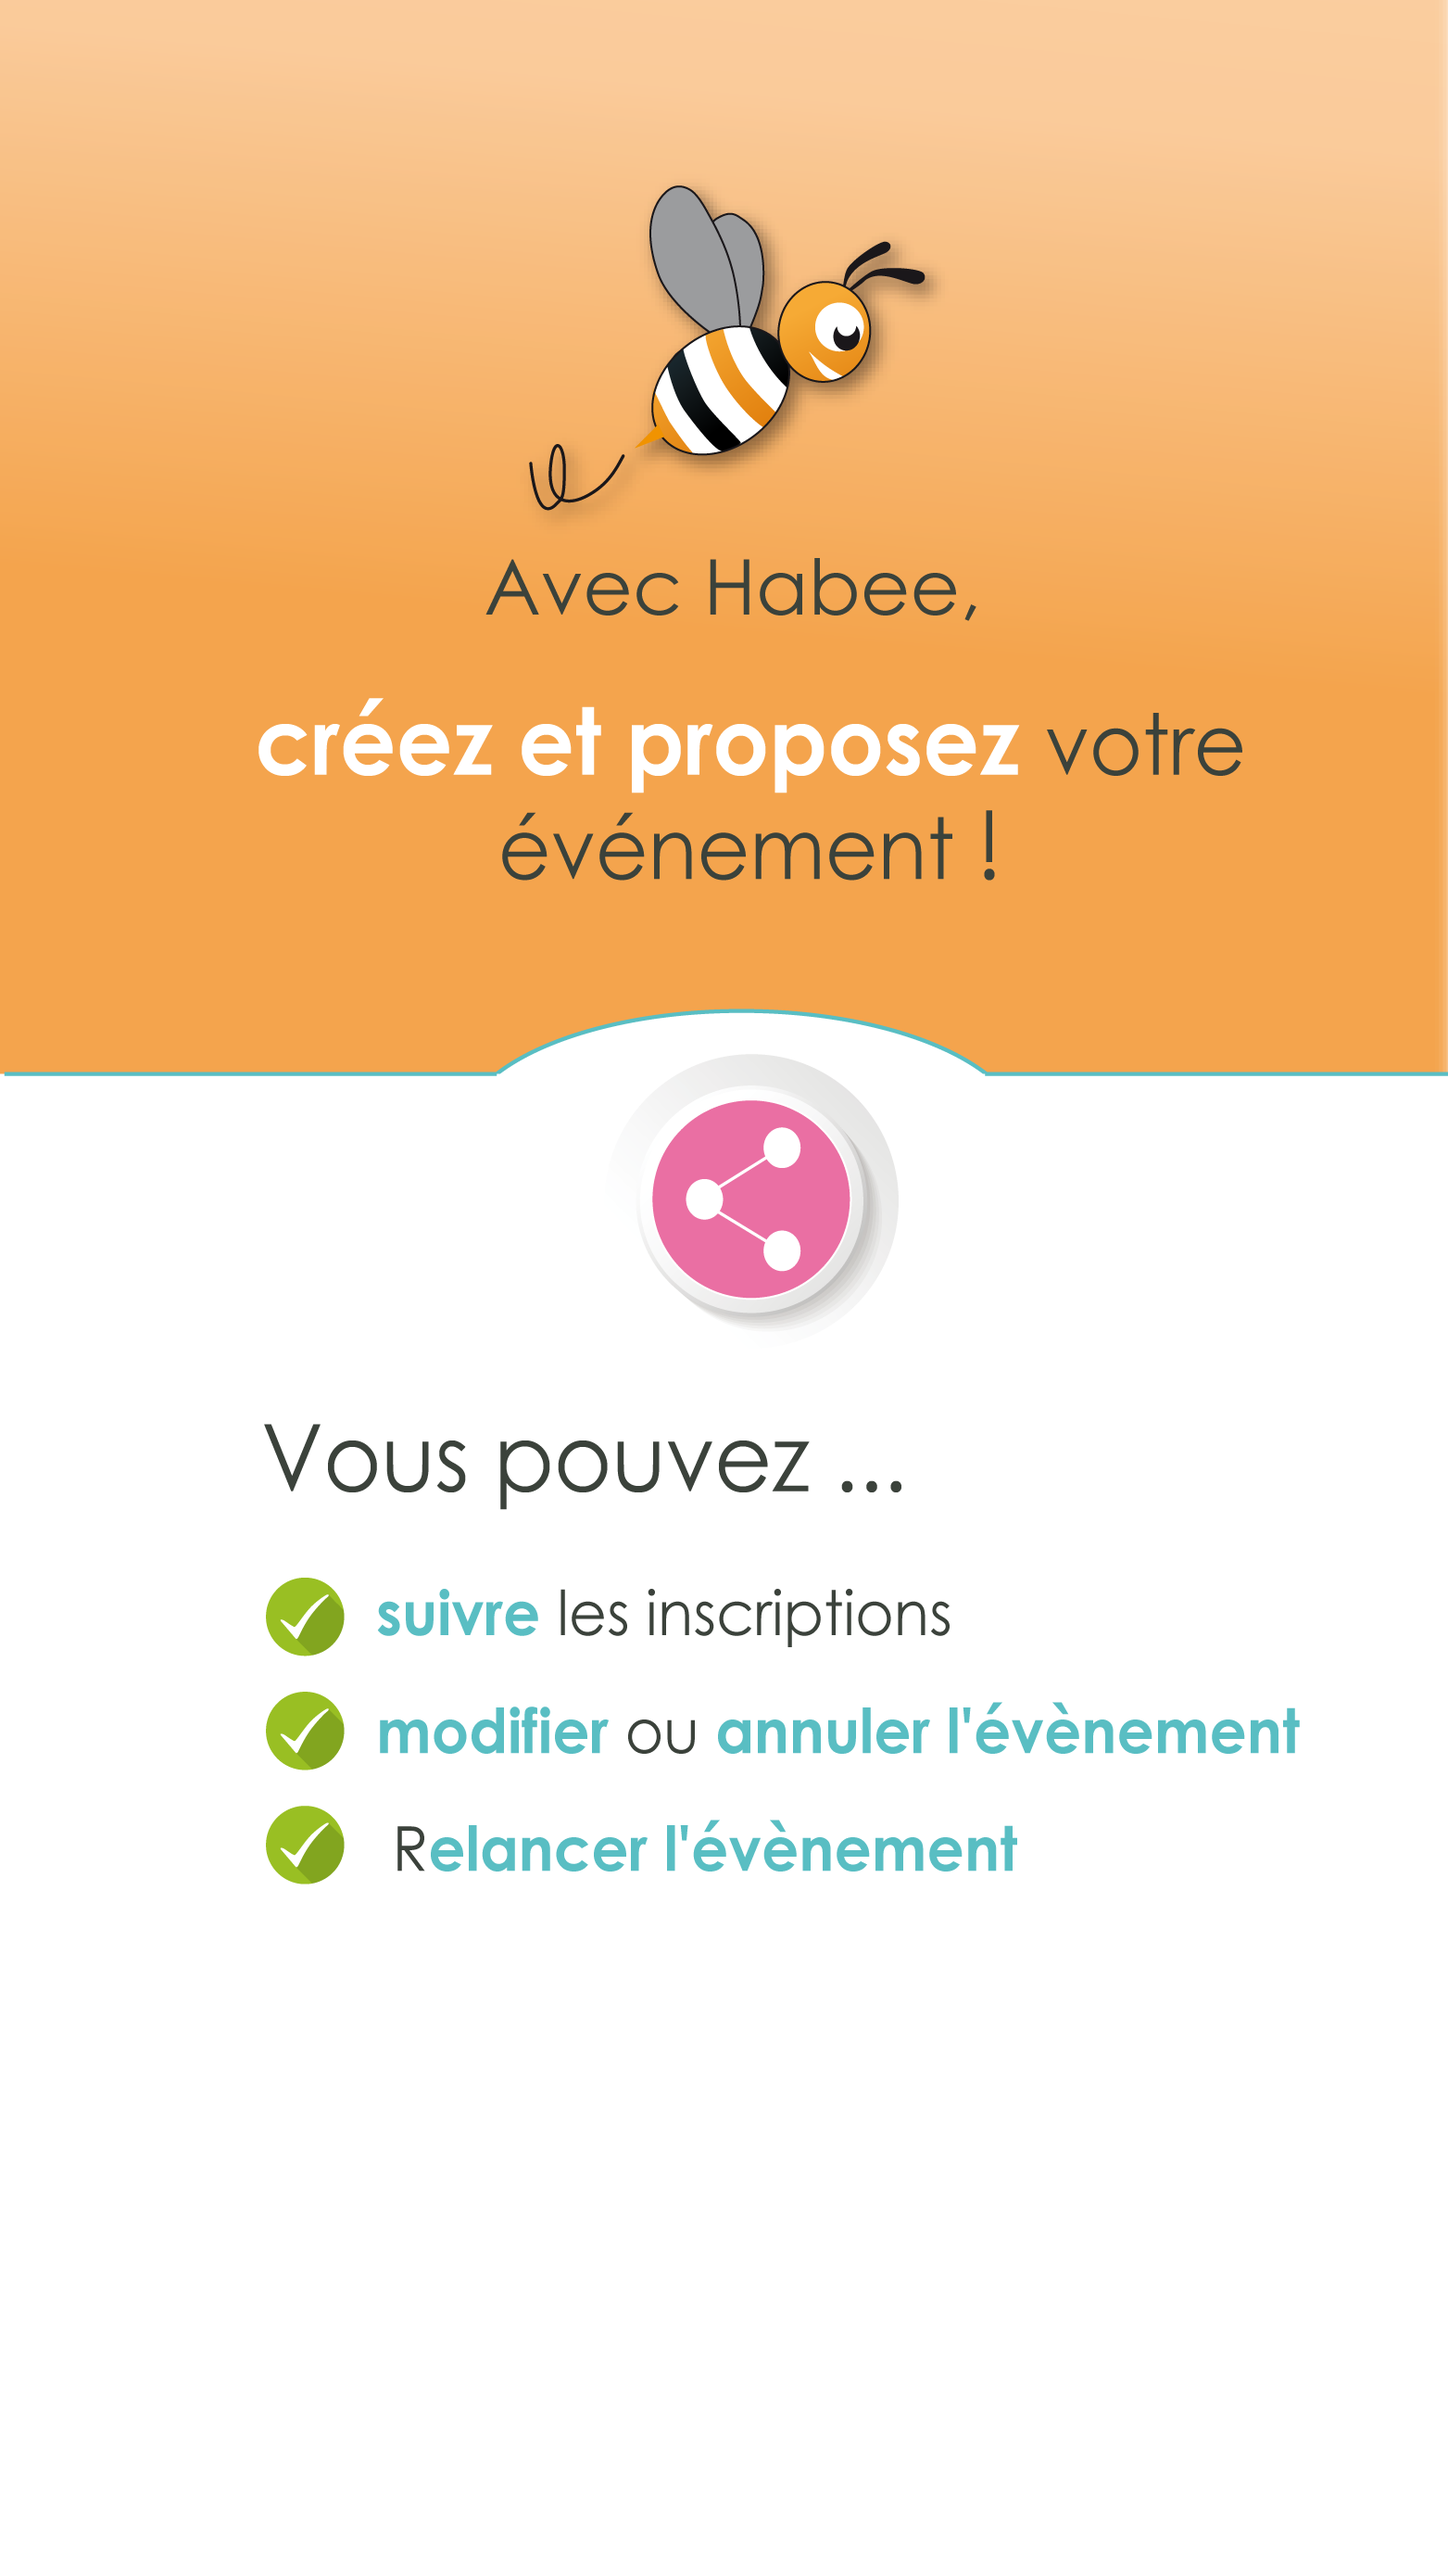
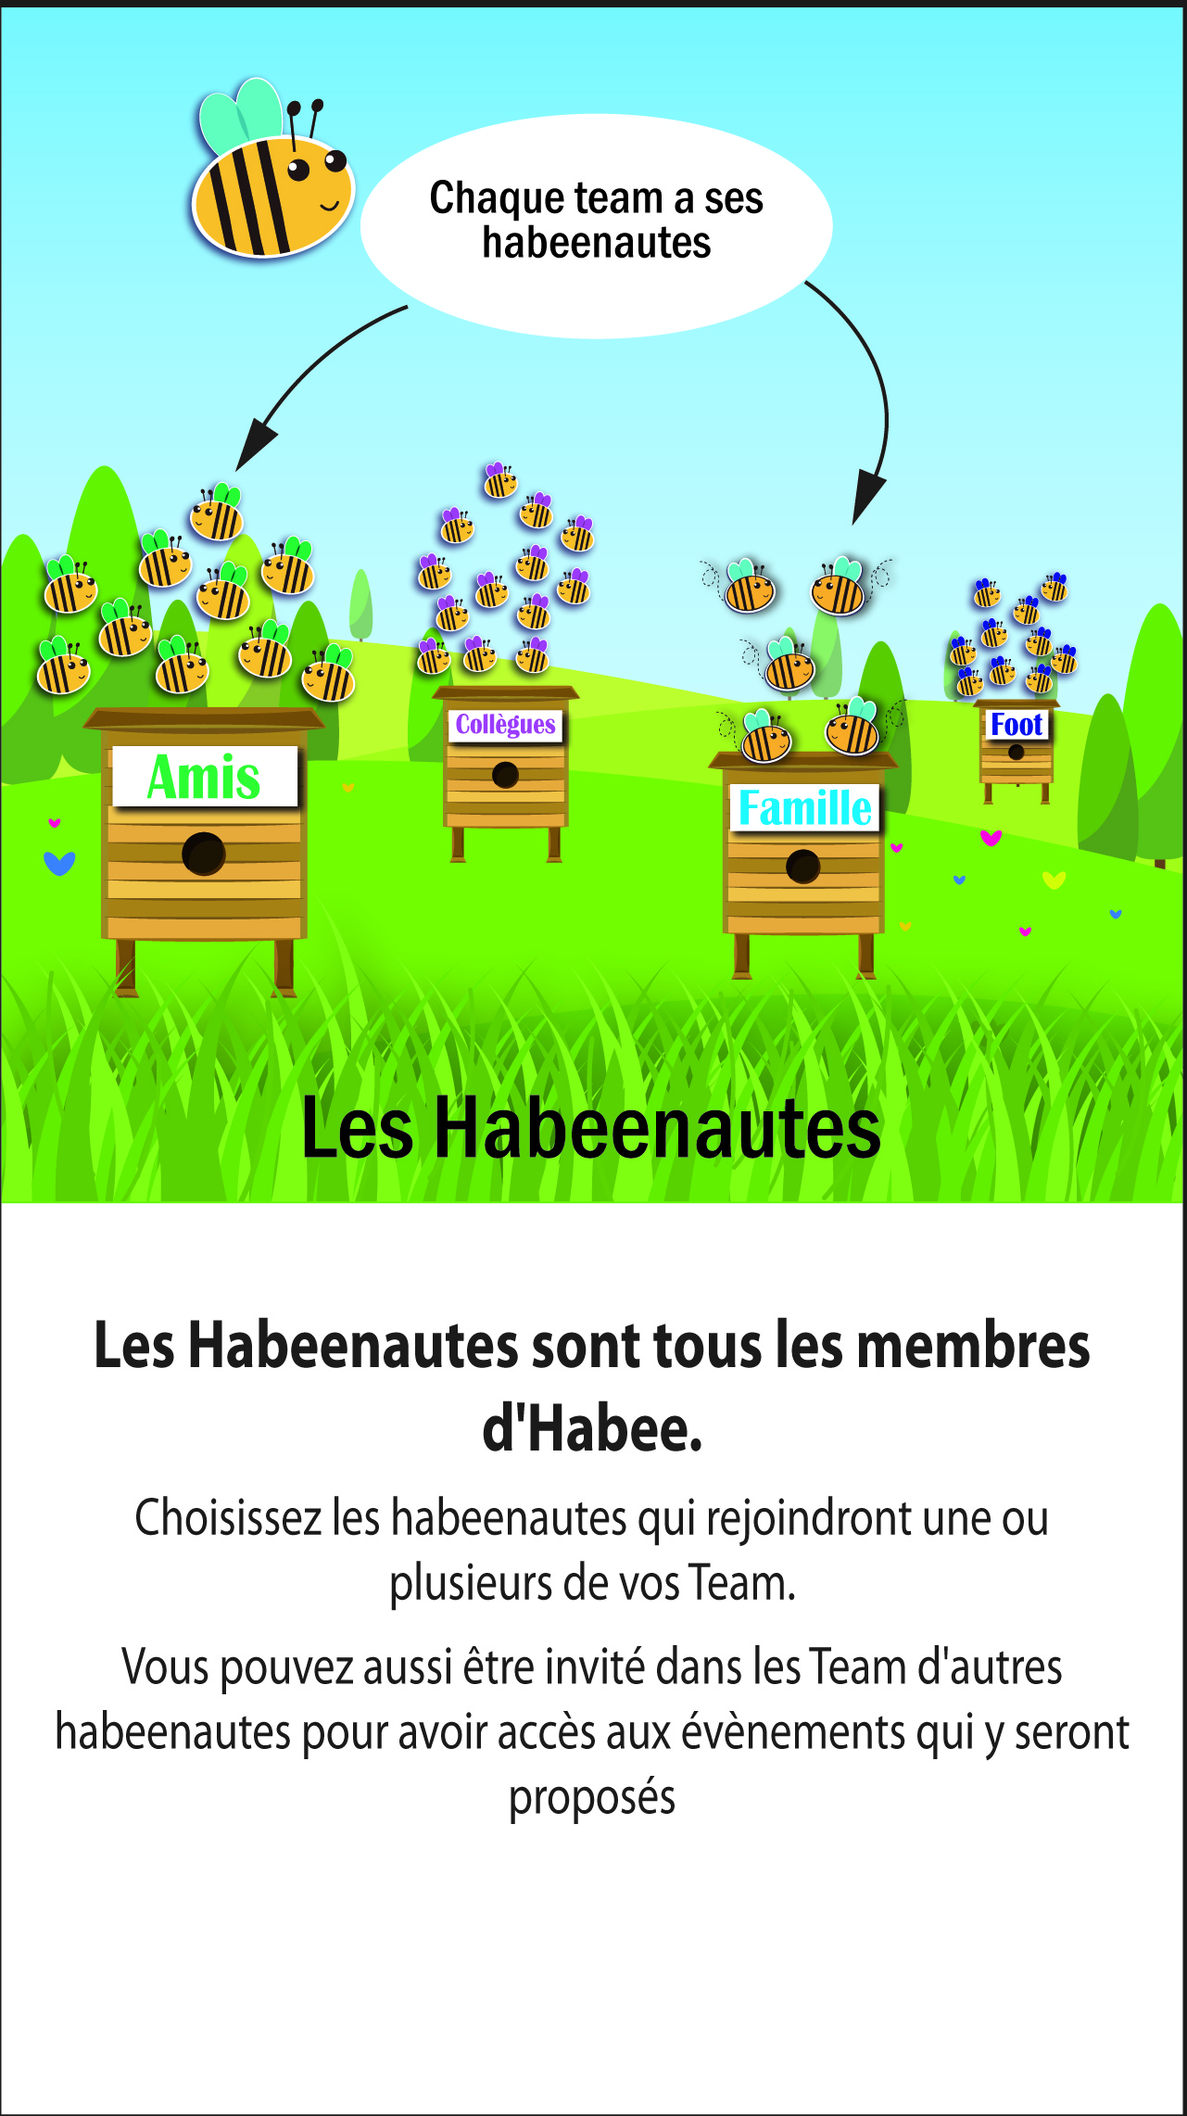
COMMUNITY : - Fixed length object error. - Updated walkthrought pages.

diff --git a/frontend/src/pages/events/events.ts b/frontend/src/pages/events/events.ts
@@ -144,7 +144,7 @@ export class EventsPage {
       });
   }
 
-  getMonthsDelimkiter(events) {
+  getMonthsDelimiter(events) {
     let tmp = [];
     let i = 1;
 
@@ -171,12 +171,11 @@ export class EventsPage {
     this.eventProvider
       .getFilteredAllEventsByCommunityId(this.tabParams, this.page)
       .subscribe(response => {
-        if (response.Events.length == 0)  {
+        if (response.Events.length == 0) {
           this.allEvents = [];
-          console.log("CCCCCCCCCCCCCCC")
-        }
-        else {
-          this.getMonthsDelimkiter(response.Events);
+          console.log("CCCCCCCCCCCCCCC");
+        } else {
+          this.getMonthsDelimiter(response.Events);
           this.allEvents = response.Events;
           this.allEvents_tmp = response.Events;
           this.perPage = response.per_page;
@@ -208,9 +207,7 @@ export class EventsPage {
         .subscribe(response => {
           if (!response) this.allEvents = [];
           else {
-            console.log("response.Events : ", response.Events.length);
             this.allEvents = this.allEvents.concat(response.Events);
-            console.log("this.allEvents : ", this.allEvents.length);
             this.allEvents_tmp = this.allEvents_tmp.concat(response.Events);
             this.perPage = response.per_page;
             this.totalData = response.total;
@@ -271,8 +268,6 @@ export class EventsPage {
       { cssClass: "comEvent-modal" }
     );
     modal.onDidDismiss(comId => {
-      console.log("This data : ", comId);
-
       if (comId != "all" && comId != null) {
         this.communityProvider
           .updateSelectedCommunity(comId, this.tabParams)
@@ -300,17 +295,17 @@ export class EventsPage {
   }
 
   getThisWeekEvent() {
-  //TODO GET WEEKLY EVENT FROM SERVER
+    //TODO GET WEEKLY EVENT FROM SERVER
+    // let datNow = moment().format("YYYY-MM-DD");
 
     let i = 0;
     this.weeklyEvents = [];
-    let datNow = moment().format("YYYY-MM-DD");
-    let weekdays = moment().add(1, 'week').format("YYYY-MM-DD")
+    let weekdays = moment()
+      .add(1, "week")
+      .format("YYYY-MM-DD");
 
     while (i < this.allEvents.length) {
-      console.log("Fomaat : ", this.allEvents[i].eventStartDate.substring(0, 10))
-      if (datNow <= this.allEvents[i].eventStartDate.substring(0, 10) && 
-      this.allEvents[i].eventStartDate.substring(0, 10) <= weekdays) {
+      if (this.allEvents[i].eventStartDate.substring(0, 10) <= weekdays) {
         this.weeklyEvents.push(this.allEvents[i]);
       }
       i++;

diff --git a/frontend/src/pages/community/community.ts b/frontend/src/pages/community/community.ts
@@ -1,9 +1,10 @@
 import { Component } from "@angular/core";
-import { 
-  IonicPage, 
+import {
+  IonicPage,
   NavController,
-  ModalController, 
-  NavParams } from "ionic-angular";
+  ModalController,
+  NavParams
+} from "ionic-angular";
 
 import { UtilsProvider } from "../../providers/utils/utils";
 
@@ -32,8 +33,8 @@ export class CommunityPage {
   totalData = 0;
   totalPage = 0;
 
-  public comListByCreator = [];
-  public comListByParticipation = [];
+  public comListByCreator: any[];
+  public comListByParticipation: any[];
 
   public myCommunitiesBorder = "5px solid darkgrey";
   public myCommunitiesBorderDisplay = "initial";
@@ -55,10 +56,6 @@ export class CommunityPage {
     };
   }
 
-  ionViewDidLoad() {
-    console.log("ionViewDidLoad CommunityPage");
-  }
-
   ionViewWillEnter() {
     this.getComListByCreation();
     this.getComListByParticipation();
@@ -68,8 +65,7 @@ export class CommunityPage {
     this.communityProvider
       .getCommunitiesbyCreator(this.tabParams)
       .subscribe(data => {
-        if (data.length == 0) this.comListByCreator = [];
-        else this.comListByCreator = data.communities;
+        this.comListByCreator = data.communities;
       });
   }
 
@@ -77,8 +73,7 @@ export class CommunityPage {
     this.communityProvider
       .getCommunitiesByParticipation(this.tabParams)
       .subscribe(data => {
-        if (data.length == 0) this.comListByParticipation = [];
-        else this.comListByParticipation = data.communities;
+        this.comListByParticipation = data;
       });
   }
 
@@ -97,7 +92,9 @@ export class CommunityPage {
   }
 
   addCommunity() {
-    const modal = this.modalCtrl.create("AddCommunityPage", this.tabParams, { cssClass: "comAdd-modal" });
+    const modal = this.modalCtrl.create("AddCommunityPage", this.tabParams, {
+      cssClass: "comAdd-modal"
+    });
     modal.onDidDismiss(data => {
       this.getComListByCreation();
     });
@@ -105,13 +102,11 @@ export class CommunityPage {
   }
 
   showComDatails(comId) {
-    
     let data = {
       userInfo: this.tabParams,
-      comId,
-    }
-    
-    this.navCtrl.push("CommunityDetailsPage", data)
-  }
+      comId
+    };
 
+    this.navCtrl.push("CommunityDetailsPage", data);
+  }
 }

diff --git a/backend/api/services/emailServices/accountCreationEmailservice.js b/backend/api/services/emailServices/accountCreationEmailservice.js
@@ -3,28 +3,46 @@ var path = require('path');
 exports.sendEmailAccountCreation = (to, subject, email, psw, name) => {
     var nodemailer = require('nodemailer');
     var EmailTemplate = require('email-templates').EmailTemplate;
+    
+    var transporter;
 
-    var transporter = nodemailer.createTransport({
-        host: 'send.one.com', //host of mail service provider
-        port: 465,
-        secure: true,
-        auth: {
-            user: process.env.USER,
-            pass: process.env.PASS
-        }
-    });
+    // if (process.env.NODE_ENV == "dev") {
+    //     console.log("dev")
+    //     transporter = nodemailer.createTransport({
+    //         pool: false,
+    //         host: 'smtp.localhost',
+    //         port: 1025,
+    //         auth: {
+    //             user: null,
+    //             pass: null
+    //         },            
+    //         secure:false,
+    //         tls: {rejectUnauthorized: false},
+    //         debug:true
+    //     })
+    // } else {
+        transporter = nodemailer.createTransport({
+            host: 'send.one.com', //host of mail service provider
+            port: 465,
+            secure: true,
+            auth: {
+                user: process.env.USER,
+                pass: process.env.PASS
+            }
+        });
+     //}
+
 
     var templateDir = path.join(__dirname, "../../", 'emailsTemplate', 'templates/accountCreation/')
 
     var testMailTemplate = new EmailTemplate(templateDir)
 
-    var locals = 
-        {
-            email: email,
-            password: psw,
-            name: name   
-        }
-        
+    var locals = {
+        email: email,
+        password: psw,
+        name: name
+    }
+
     testMailTemplate.render(locals, function (err, temp) {
         if (err) {
             console.log("error", err);

diff --git a/frontend/src/pages/community/community.html b/frontend/src/pages/community/community.html
@@ -47,10 +47,7 @@
 
 
   <ion-list [ngStyle]="{'display': myCommunitiesBorderDisplay}">
-    <span *ngIf="comListByCreator.length == 0">
-        <p>Vide ...</p>
-      </span>
-      <span *ngIf="comListByCreator.length > 0">
+      <span>
         <ion-item-sliding *ngFor='let community of comListByCreator'>
           <ion-item (click)="showComDatails(community.communityId)" no-lines>
             <ion-avatar item-left>
@@ -65,10 +62,8 @@
 
 
   <ion-list [ngStyle]="{'display': communitiesByInvteBorderDisplay}">
-    <span *ngIf="comListByParticipation.length == 0">
-      <p>Vide ...</p>
-    </span>
-    <span *ngIf="comListByParticipation.length > 0">
+   
+    <span>
       <ion-item-sliding *ngFor='let community of comListByParticipation'>
         <ion-item no-lines>
           <ion-avatar item-left>

diff --git a/frontend/src/pages/profile/profile.ts b/frontend/src/pages/profile/profile.ts
@@ -56,6 +56,7 @@ export class ProfilePage {
     };
 
     this.getProfileInfo();
+    this.getCommunties();
   }
 
   ionViewWillEnter() {

diff --git a/frontend/src/pages/tabs/tabs.scss b/frontend/src/pages/tabs/tabs.scss
@@ -1,5 +1,5 @@
 .tabs-md .tabbar {
-  background: floralwhite;
+  background: white;
 }
 
 .tabs-ios[tabsPlacement=top] .tabbar {
